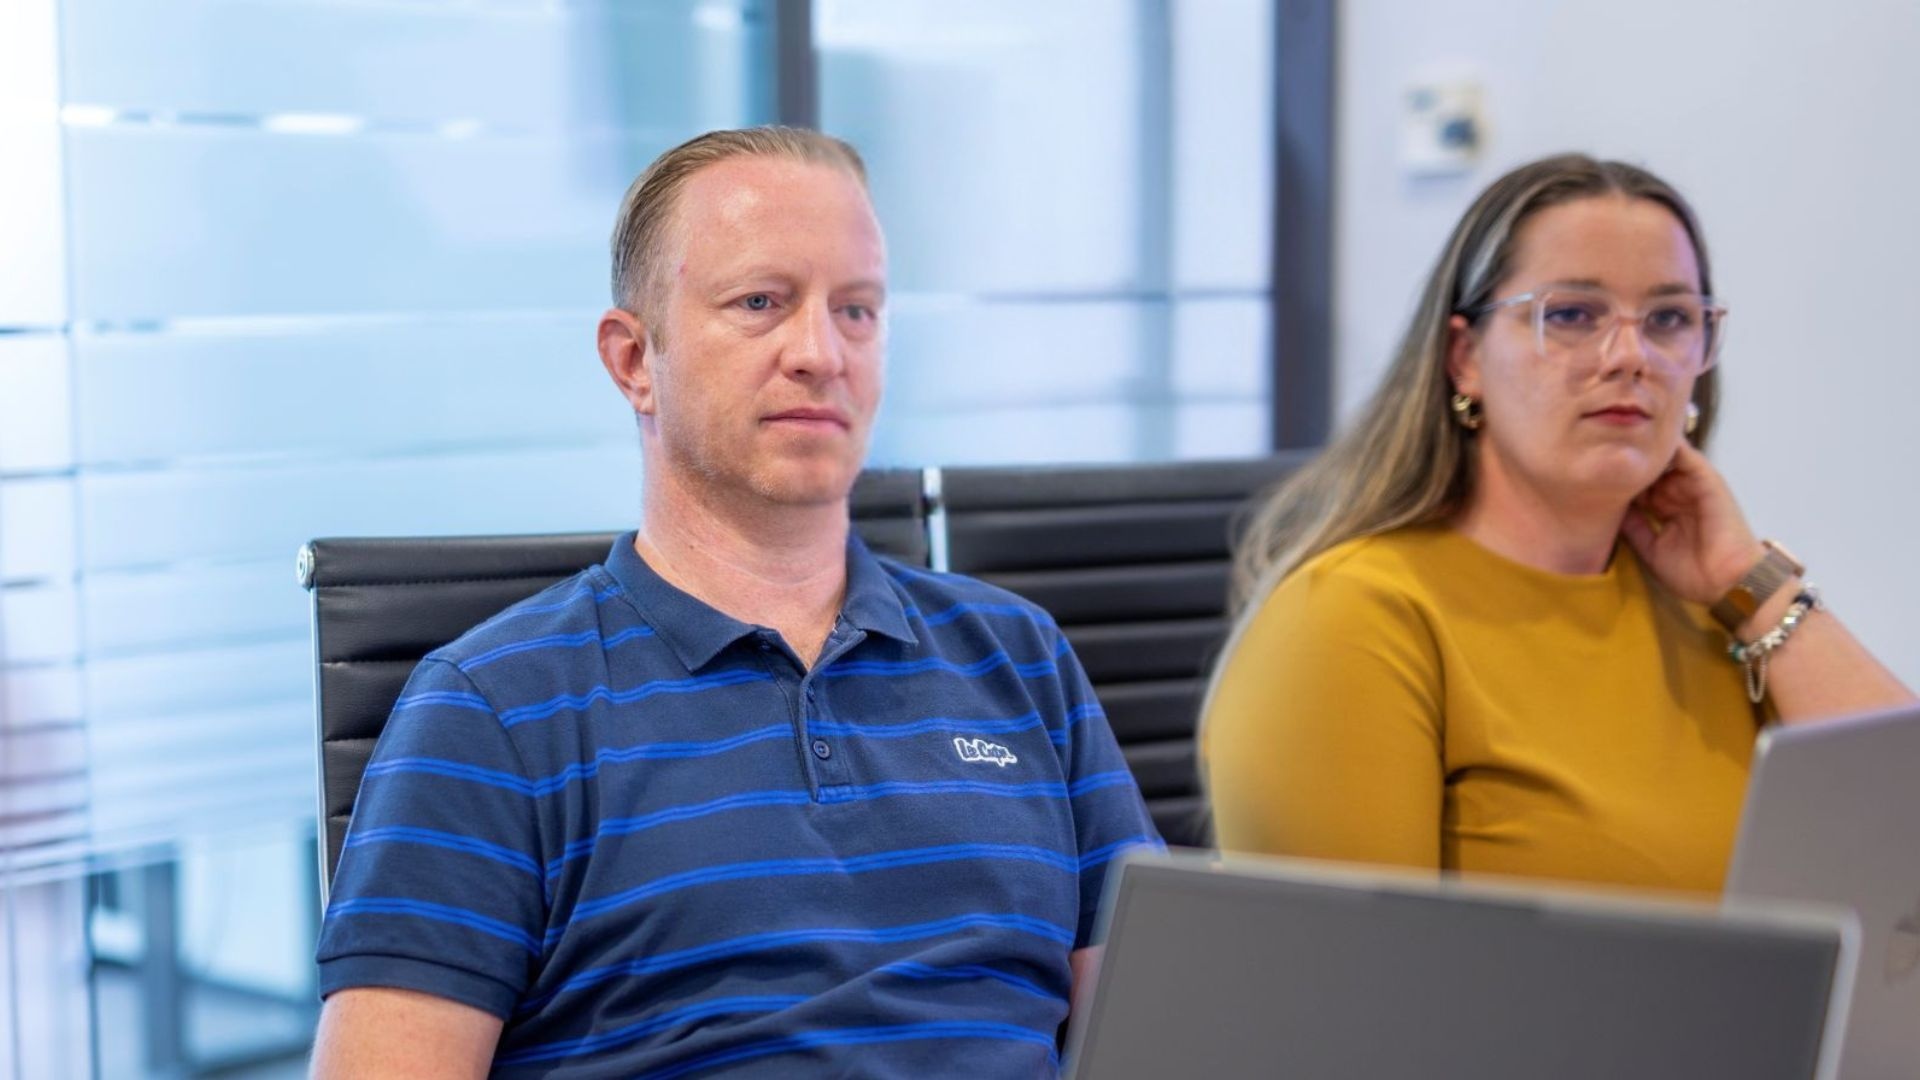
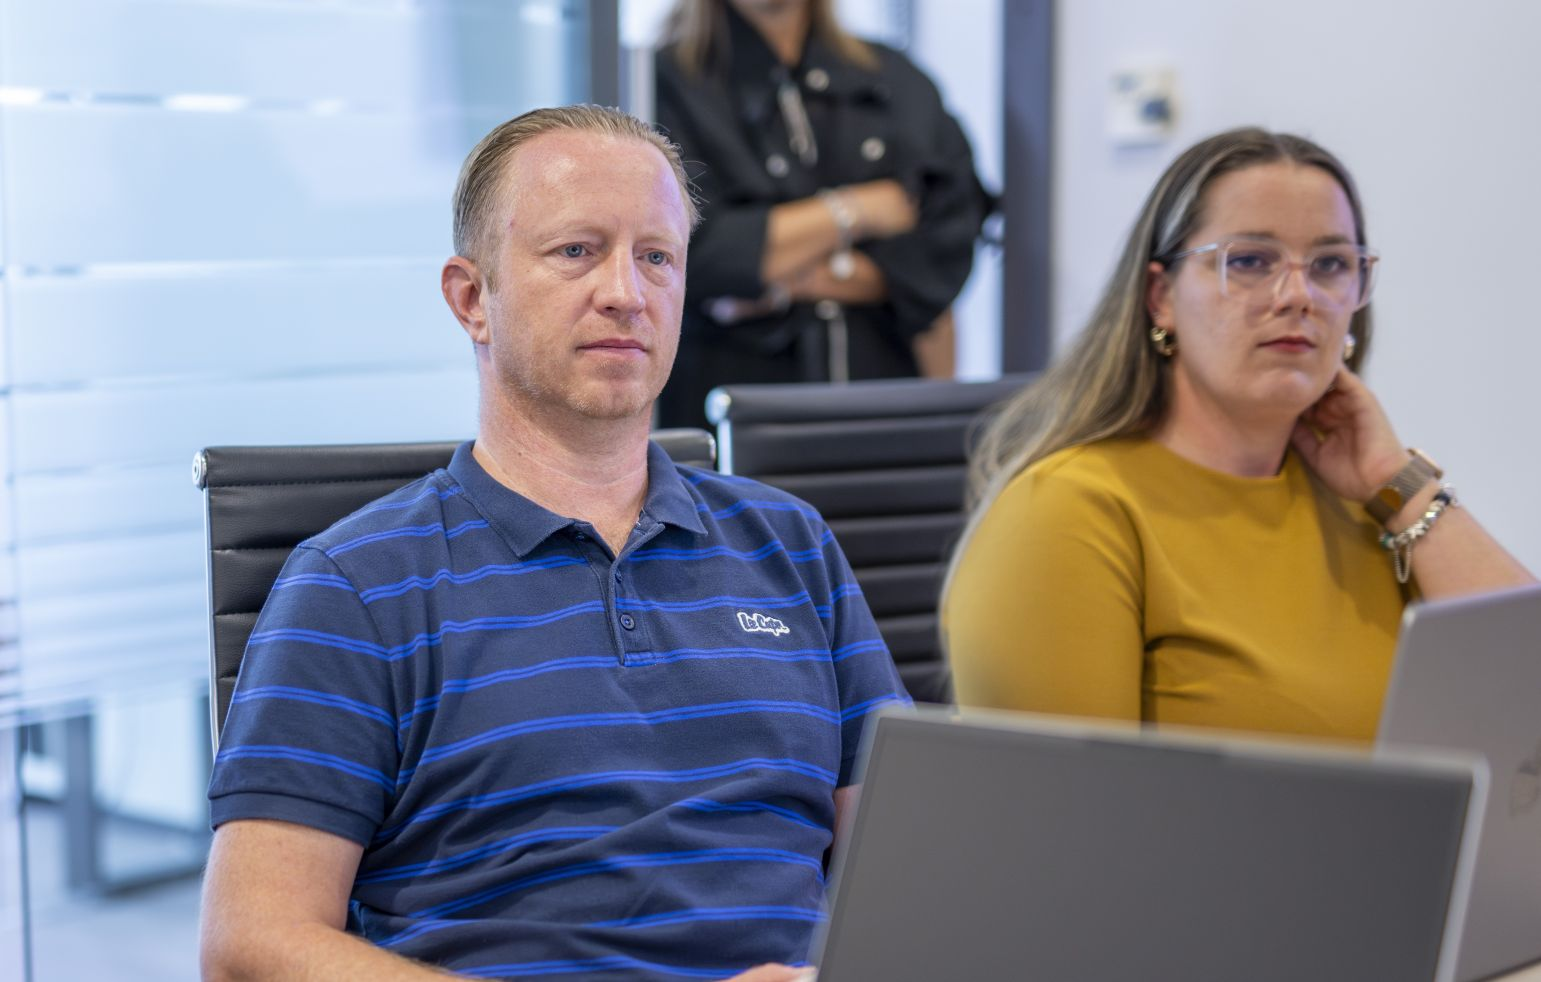
upload sa primjerom 1

diff --git a/story1.html b/story1.html
@@ -77,7 +77,7 @@
             left: 0;
             width: 100%;
             height: 100%;
-            background-color: rgba(0, 0, 0, 0.7);
+          /*  background-color: rgba(0, 0, 0, 0.7);*/
             /* Darker background for text readability */
             display: flex;
             flex-direction: column;
@@ -121,7 +121,7 @@
     <div class="scrolly-container">
         <!-- The sticky background image -->
         <div class="sticky-image-wrapper">
-            <img src="images/happy.jpg" alt="Background Image"
+            <img src="images/monedasyphotos2.png" alt="Background Image"
                 class="sticky-image">
         </div>
 

diff --git a/story2.html b/story2.html
@@ -184,7 +184,7 @@
     <div class="scrolly-container">
         <!-- The sticky background image -->
         <div class="sticky-image-wrapper">
-            <img src="images/zvjezdana_once.gif" alt="Background Image"
+            <img src="images/monedasyphotos2.png" alt="Background Image"
                 class="sticky-image">
         </div>
 
